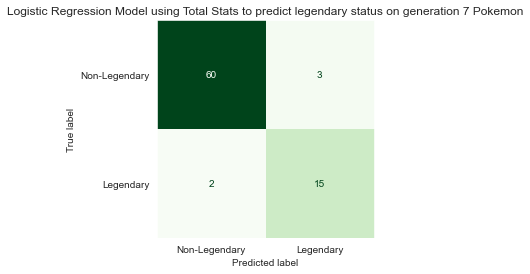
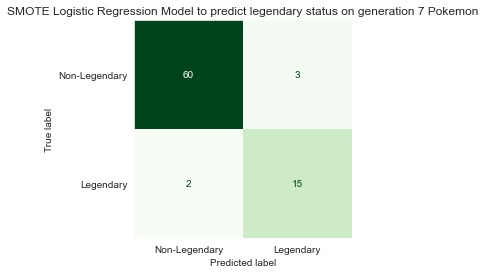
Updated pokemon_classifier to include SMOTE

diff --git a/pokemon_classifier.html b/pokemon_classifier.html
@@ -72,7 +72,7 @@
 										 Python
 									</i>
 									<br>
-									<i class="icon solid fa-chart-line"> Visualization, k-Nearest Neighbors, Logistic Regression</i>
+									<i class="icon solid fa-chart-line"> Visualization, k-Nearest Neighbors, Logistic Regression, Over and Under-Sampling Techniques</i>
 								</header>
 							<p>
 								<h3><u>Method</u></h3>
@@ -81,6 +81,7 @@
 									<li>Check correlation between all Pokémon stats to identify predictors most associated with a Pokémon being legendary.</li>
 									<li>Construct k-Nearest Neighbor (kNN) models by training on generation 1-6 Pokémon, then check performance by testing on generation 7 Pokémon.</li>
 									<li>Construct Logistic Regression models by training on generation 1-6 Pokémon, then check performance by testing on generation 7 Pokémon.</li>
+									<li>Attempt over and under-sampling techniques to deal with heavily imbalanced classes (8% legendary vs. 92% non-legendary) and re-create kNN and logistic regression models.</li>
 								</ol>
 							</p>
 							<p>
@@ -197,11 +198,39 @@
 										The logistic regression model yielded the same accuracy (82%) as the kNN model on generation 7 Pokémon.<br><br>
 										Investigating further, both models made the exact same predictions.  Out of 80 new Pokémon in generation 7, both models predicted 78 would be non-legendary and only 2 to be legendary.<br><br>Unfortunately neither kNN nor logistic regression do much better than a naive model which always guesses a newly observed Pokémon will be non-legendary.  The search for a better model continues.
 									</p>
+								</section>
+								<section>
+									<header>
+										<h3><u>Part 5: Over and Under-Sampling Techniques</u></h3>
+										<i class="icon solid fa-book">
+										Imblearn
+										</i>
+									</header>
 									<p>
-										<h3><u>Part 5: Coming Soon</u></h3>
-										Linear Discriminant Analysis, Quadratic Discriminant Analysis, and revisiting kNN and logistic regression by altering the bayes decision boundary.
-
-										Also, using under-sampling and over-sampling techniques to over come the large class imbalance between legendary and non-legendary Pokémon.  Using these techniques I'm hopeful kNN and logistic regression models will stop being heavily biased towards classifying a Pokémon as non-legendary.
+										<h4>5.1 Background</h4>
+										Classification algorithms have a tough time when working with largely imbalanced datasets.  These algorithms are designed to maximize performance and sometimes the best way to do that is to always guess the same thing.  For instance, in the Pokémon data from generation 1-6, 92% of the Pokémon are non-legendary.  If the model always guesses non-legendary, it will be right 92% of the time, which is close to the maximum of 100%.  Increasing performance above 92% will be difficult, but is the key difference in making the model great.
+									</p>
+									<p>
+										Using a combination of over and under-sampling techniques, the generation 1-6 Pokémon data set can be transformed and new models trained on the transformed data.  Using the imbalanced_learn library from SKlearn, one can over-sample the minority class by creating new "synthetic" minority observations and add them to the data set, as well as under-sample the majority class by removing majority observations.  Chaining these together will produce a synthetic dataset that is more balanced and easier to train the model on.  Because we want to understand how the model reacts to new data, the model will still be tested on untransformed data, to more closely resemble incoming newly unseen data.
+									</p>
+									<p>
+										<h4>5.2 kNN and Logistic Regression Performance on Gen 7 and Gen 8 Pokémon</h4> 
+										After employing both techniques, kNN and logistic regression both saw significant increases in performance and all of a sudden weren't biased towards predicting non-legendary anymore.  Both models adapted well to new Pokémon from generation 7, as well as from generation 8, having 94% and 92% accuracy, respectively.  Interestingly, both kNN and logistic regression performed exactly the same, making the exact same predictions again, as can be seen below.  
+									</p>
+									<br>
+										<img src="images/pokemon_classifier/smote_summary.png" alt=""/>
+										<br> 
+									<p>
+										There are probably better models out there, but since they're performing equally well, for now kNN and logistic regression are tied.  They're both performing well, adapting nicely to new data, and seem like great models to use.
+									</p>
+								</section>
+								<section>
+									<p>
+										<h3><u>Part 6: Coming Soon</u></h3>
+										Will other models like Linear Discriminant Analysis or Quadratic Discriminant Analysis perform better?  
+									</p>
+									<p>
+										Also, revisiting kNN and logistic regression one more time and altering the bayes decision boundary.
 									</p>
 								</section>
 							</article>

diff --git a/portfolio.html b/portfolio.html
@@ -133,10 +133,10 @@
 										 Python
 										</i>
 										<br>
-										<i class="icon solid fa-chart-line"> Visualization, k-Nearest Neighbors, Logistic Regression</i>
+										<i class="icon solid fa-chart-line"> Visualization, k-Nearest Neighbors, Logistic Regression, Over and Under-Sampling Techniques</i>
 										<br>
 										<i class="icon solid fa-book">
-										 Pandas, Sklearn, Statsmodels, Matplotlib, Seaborn
+										 Pandas, Sklearn, Statsmodels, Matplotlib, Seaborn, Imblearn
 										</i>
 								</p>
 								<p>

diff --git a/index.html b/index.html
@@ -256,7 +256,7 @@
 														</i>
 														<br>
 														<br>
-														<i class="icon solid fa-chart-line"> Visualization, k-Nearest Neighbors, Logistic Regression</i>
+														<i class="icon solid fa-chart-line"> Visualization, k-Nearest Neighbors, Logistic Regression, Over and Under-Sampling Techniques</i>
 														<br>
 														<br>
 													</p>
